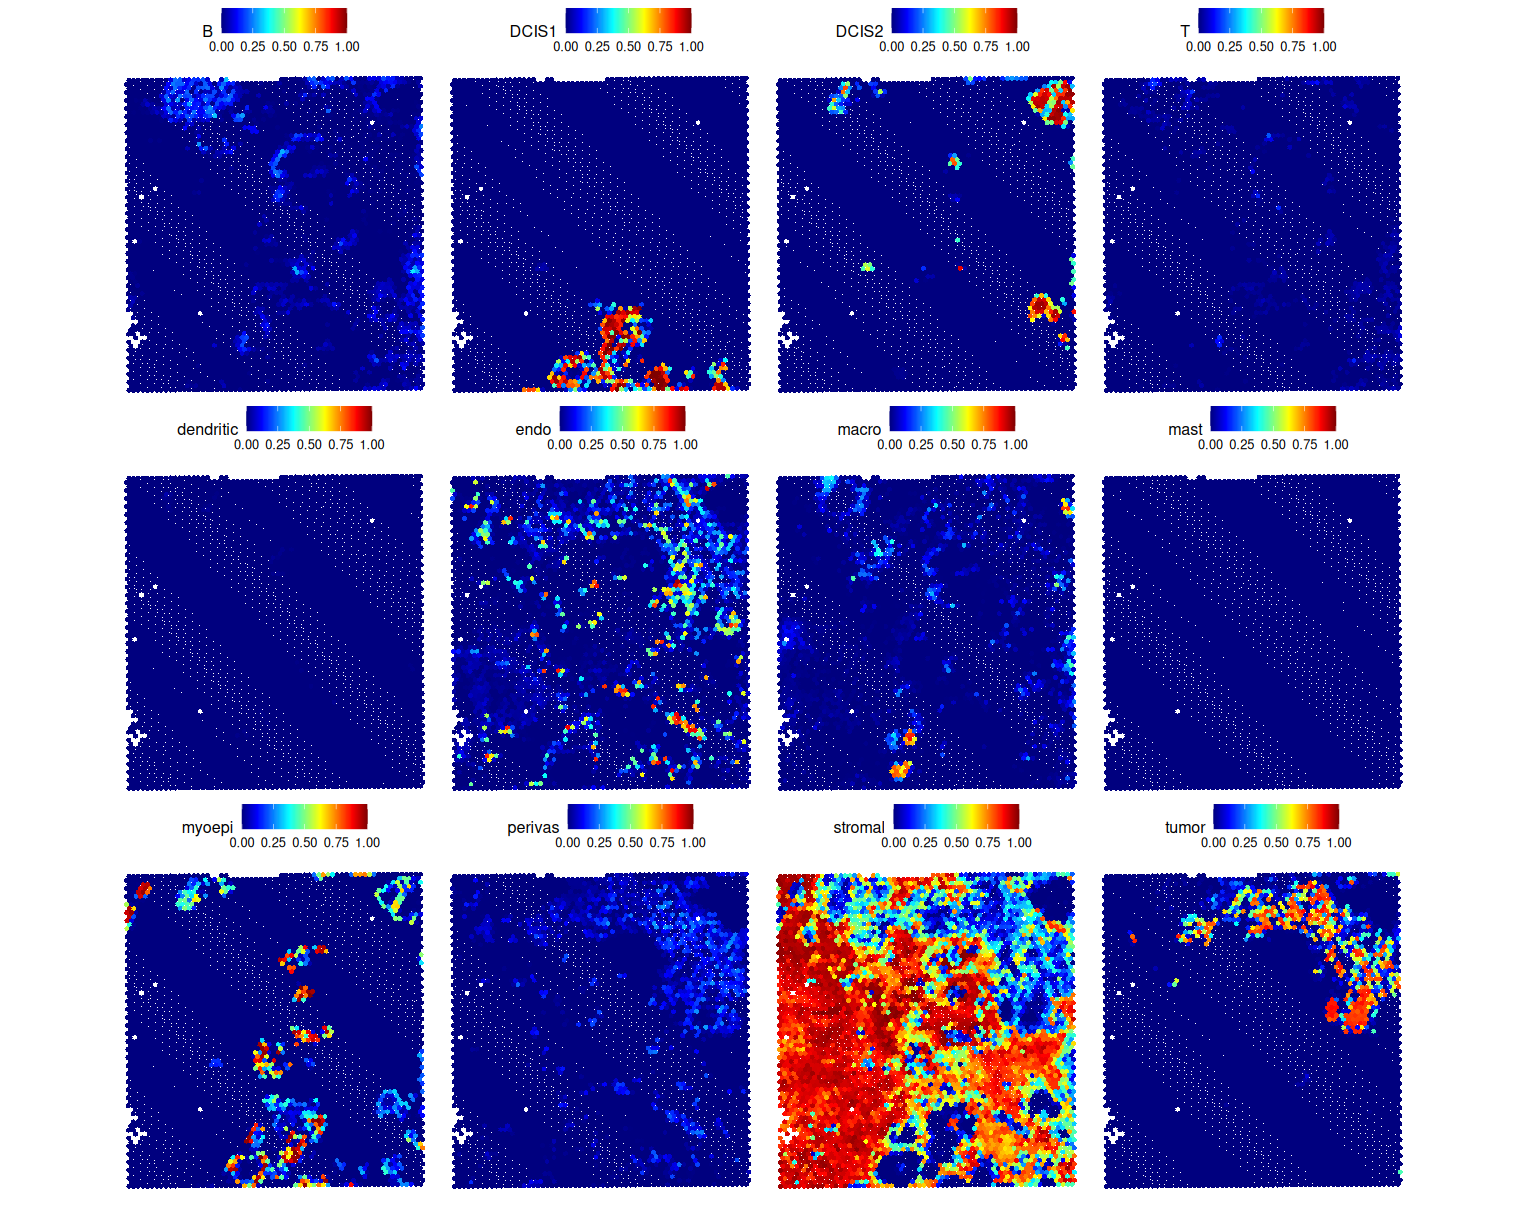
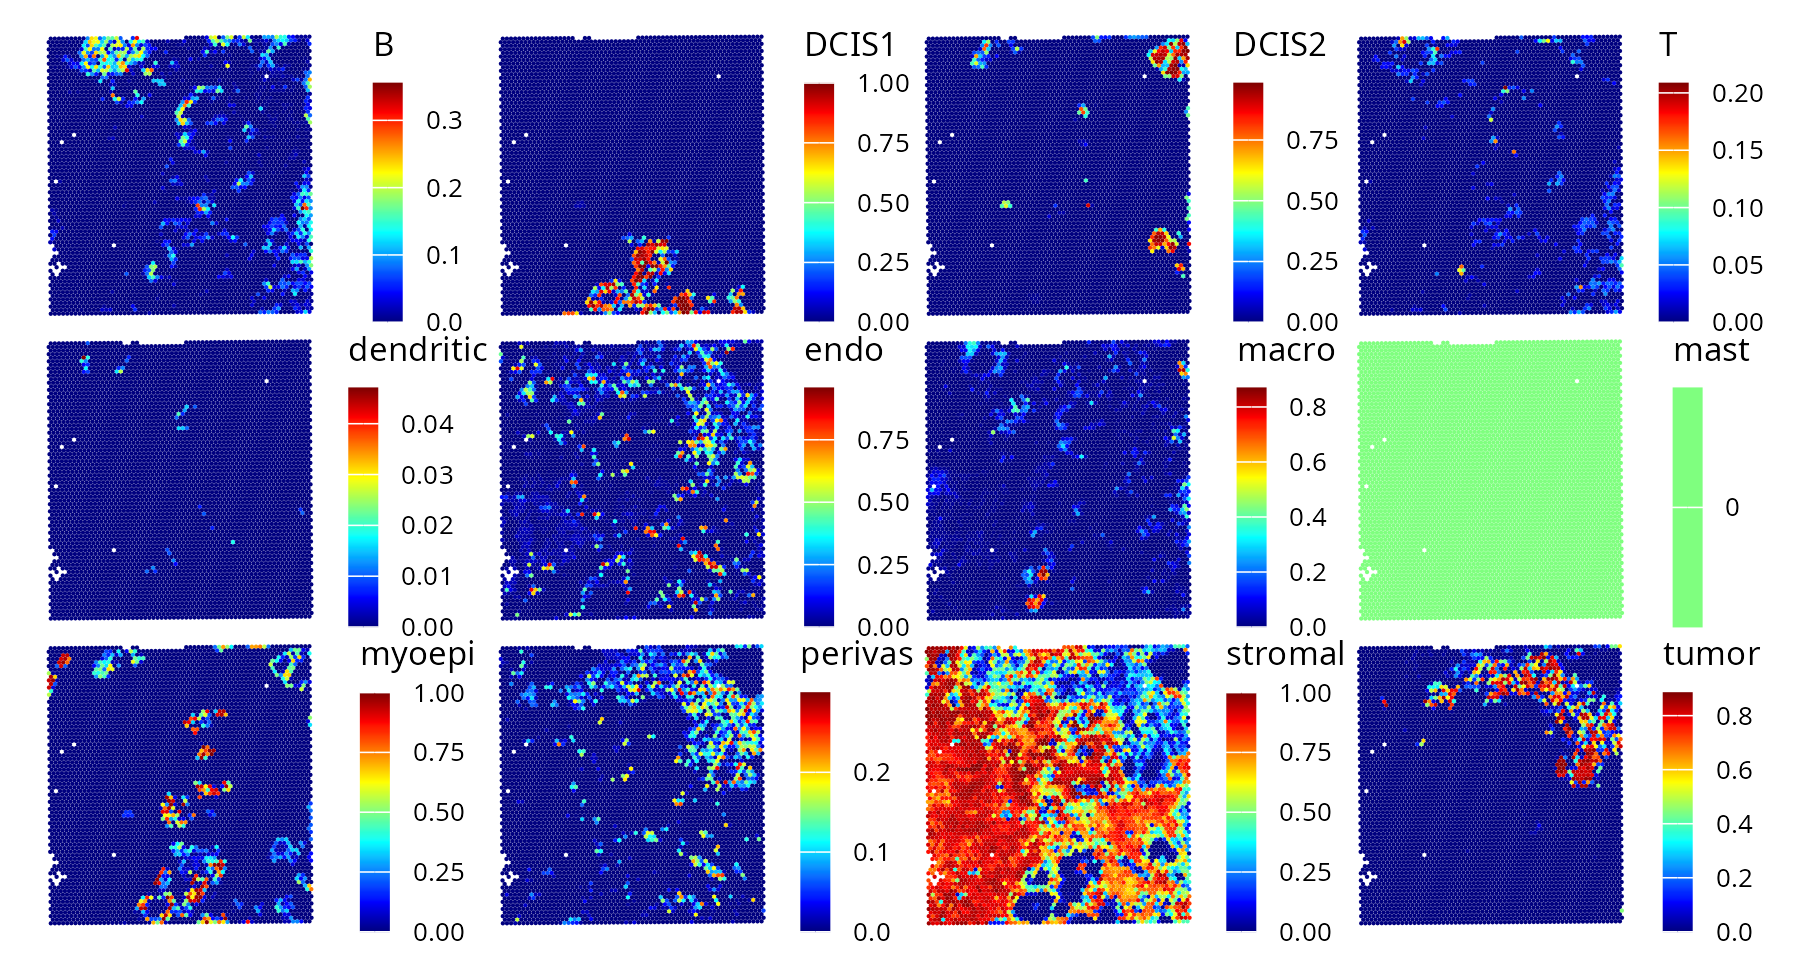
sep26 revisions

diff --git a/README.md b/README.md
@@ -11,16 +11,16 @@ This workflow provides a practical intro to Tumour Microenvironment (TME) analys
 ## Aims:
 
 1)  Spatial transcriptomics workflow interoperation by translating the OSTA chapter 12 workflow to the Seurat framework.
-2)  Visually compare differences in spatial maps produced by our deconvolution using `Seurat::FindTransferAnchors()` and OSTA's deconvolution using RCTD.
+2)  Visually compare differences in spatial maps produced by my deconvolution using `Seurat::FindTransferAnchors()` and OSTA's deconvolution using RCTD.
 3)  Use NMI to quantify the change in spatial alignment between spatial maps from `Seurat::FindTransferAnchors()` and RCTD after affine registration with the NiftyReg algorithm.
-4)  Calculate match rates between Seurat predictions and ground truth supplied by 10X.
+4)  Calculate match rates between Seurat predictions and spot annotations ("ground truth") supplied by 10X.
 
-(Bonus) Visually compare Seurat's UMAP clustering vs the ground truth cell type IDs provided by 10X genomics.
+(Bonus) Visually compare Seurat's UMAP clustering vs the cell type IDs provided by 10X genomics.
 
 ## Questions:
 
 - Do the spatial maps from this TME dataset visually differ when produced with Seurat’s integration-based deconvolution instead of RCTD’s probabilistic deconvolution?
-- What is the increase in NMI achieved by optimally aligning the Seurat map to the RCTD map using affine transformations?
+- Is there a change in NMI achieved by optimally aligning the Seurat map to the RCTD map using affine transformations?
 - How close are Seurat's cell type predictions to the annotation provided by 10X? (where the predictions are comparable).
 
 ## Links to project inspiration:
@@ -35,12 +35,12 @@ To skip to the images (Note: Deconvolution result images are flipped vertically 
 
 ## Limitations:
 
-- This version only calculates a confusion matrix on the Seurat results.
 - The sample is one spatial transcriptomics slide/slice.
 - No analysis is made into why one prediction algorithm captures certain oncological info better than the other.
 - Did not find markers for clusters.
-- Match rates are only calculated for a subset of cell types (DCIS #1, DCIS #2, invasive, stromal) in the ground truth annotation, which matched the cell types in the deconvolution reference.
-- I do not have the methodology for "Ground Truth" cell type identification.
+- This version only calculates a confusion matrix against 10X annotations for the Seurat results.
+- Match rates are only calculated for a subset of cell types (DCIS #1, DCIS #2, invasive, stromal) in the 10X "ground truth" annotations, those which matched the cell types in the deconvolution reference.
+- I do not have the methodology for 10X cell type identification.
 
 ## Quick note on breast cancer TME:
 
@@ -54,13 +54,35 @@ DCIS is Ductal Carcinoma in situ. These cells are preinvasive cancer cells still
 
 ## Results
 
+<div align="center">
+<img src="data/seurat_FindTransferAnchors_img.png" width="900" alt="Seurat deconvolution results">
+<br>
+<em>My reverse-engineered results: Seurat cell type identification of the Janesick et al. breast tumour Visium sample</em>
+</div>
+
+<br><br>
+
+<div align="center">
+<img src="data/Screenshot_2026-06-10_18-47-50.png" width="900" alt="RCTD (OSTA) deconvolution results">
+<br>
+<em>Original results from OSTA: RCTD/Bioconductor cell type identification of the Janesick et al. breast tumour Visium sample (images needed flipping, no other manipulations done)</em>
+</div>
+
+<br><br>
+
+<div align="center">
+<img src="data/10X_anno.png" width="900" alt="10X annotations">
+<br>
+<em>Spot annotations provided by 10X Genomics (for guidance)</em>
+</div>   
+
 ### NMI Similarity (Seurat vs RCTD deconvolution algorithms)
 
-(Check the `data` directory to see these images in PNG format)
+(Test was done on first and second image in Results section)
 
 High NMI before, and increase in NMI after applying affine registration to images shows that both methods make similar spatial patterns of cell type predictions.
 
-### Moderate Match Rates in tumour or preinvasive DCIS cells (Predictions vs Ground Truth)
+### Moderate Match Rates in tumour or preinvasive DCIS cells<br>(Seurat Predictions vs 10X annotations)
 
 *(Match rates are only calculated for a subset of cell types (DCIS #1, DCIS #2, invasive, stromal) in the ground truth annotation, which matched the cell types in the deconvolution reference.)*
 
@@ -86,7 +108,7 @@ Stromal: 99.3% correct (not breast cancer, nor hard to identify)
 
 Despite moderate cancer cell spot identification rates in the confusion matrix, biologically meaningful spatial patterns that make oncological sense are still captured by the Seurat prediction algorithm. This project was not sufficient in scope to answer whether the limitation causing the confusion lied with the spot annotations from 10X, or with Seurat's deconvolution algorithm. Seurat's deconvolution algorithm produced highly but not completely similar predictions to RCTD.
 
-The moderate match rates between deconvolution predictions and ground truth annotations, combined with the high similarity between Seurat and RCTD predictions, suggest that either the capture of ground truth annotations or the spatial transcriptomics deconvolution of the breast TME is fundamentally challenging. This is presumably due to the intermingled nature of cell populations and cellular transformation process in cancer.
+The moderate match rates between deconvolution predictions and annotations used as "ground truth", combined with the high similarity between Seurat and RCTD predictions, suggest that either the capture of ground truth annotations or the spatial transcriptomics deconvolution of the breast TME is fundamentally challenging. This is presumably due to the intermingled nature of cell populations and the cellular transformation process in cancer.
 
 ## Notes
 
